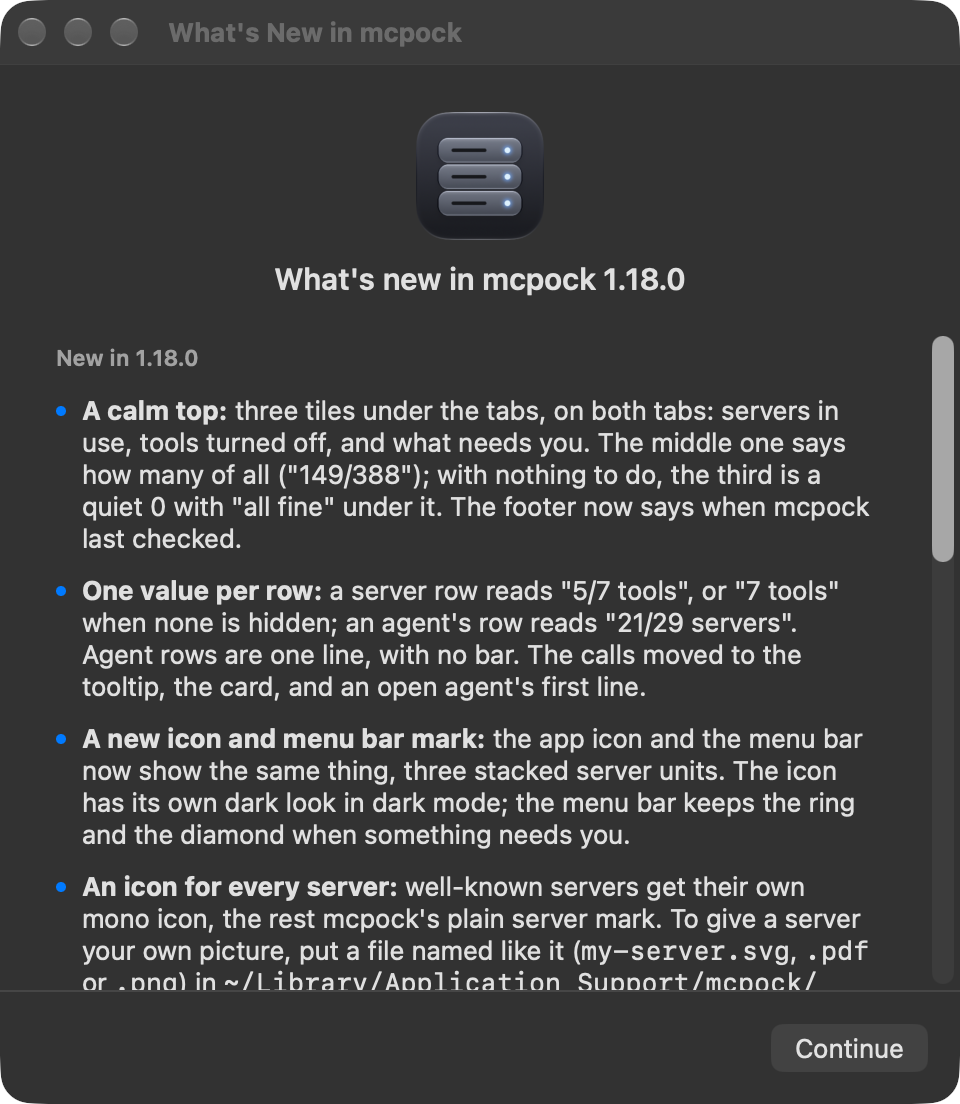
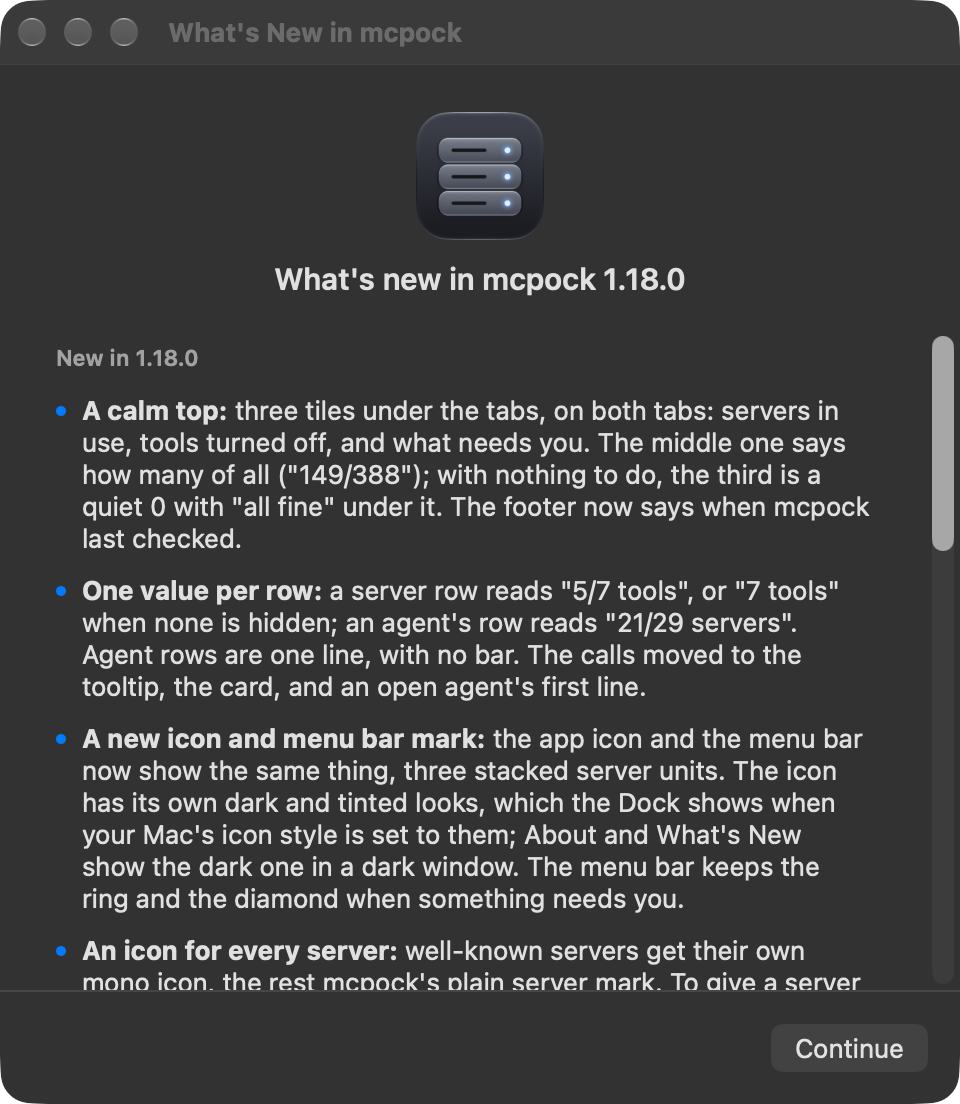
README and release notes for the 1.18.0 release
The README's facts list names the switches; the switches part names Hermes profiles and says a server turned on again goes back to the same place in its file. The release notes say the same. What's New is retaken with the final notes.

Changed region(s): [[0.0625, 0.7083, 0.9062, 0.8931], [0.9688, 0.4928, 1.0, 0.5236]]

diff --git a/README.md b/README.md
@@ -21,6 +21,7 @@ A native macOS menu bar app that checks every MCP server your AI agents use and 
 - macOS 26 or later, Apple Silicon. Lives in the menu bar only: no Dock icon, no window.
 - Swift and SwiftUI, one dependency (Sparkle, for signed updates).
 - Reads Claude Code, Claude Desktop, Cursor, Windsurf, Codex, Grok, Goose, Hermes, OpenCode, VS Code and more, plus any standard MCP config it finds.
+- Turns a server off or on per agent, hides single tools, and shows each change before it writes.
 - Ships its own small MCP server, so you can say "check my mcpock" to an agent.
 
 ## Problems first, in plain words
@@ -68,7 +69,7 @@ When a server drops inside a Claude Code session that is still open, its row say
 
 ![Dark mode. Left, the github card (demo data): "Tools, 6/8 on", with two folds, tools not used in 30 days and hidden tools. Middle, the Servers tab searched for "github", the row reading "6/8 tools". Right, the card of a made-up server after one tool was turned off: Claude Code says "1 tool hidden", Cursor says "1 tool hidden through mcpock's filter", then five tools, each with its switch, and "Hidden, 1" at the end.](docs/images/mcpock-tools-dark.png)
 
-A switch beside each agent on a server's card turns that server on or off there, and a switch beside each tool hides that tool from your agents. mcpock uses each agent's own setting where it has one (Claude Code's blocked and deny lists, `enabled` and `disabled_tools` lines in Codex, Grok, Goose, Hermes and OpenCode, `disabled` in Cline), shows you the change first and saves a backup of the file. Claude Desktop, Cursor, VS Code and Windsurf have no off setting, so a server you turn off there waits in mcpock's own folder and moves back when you turn it on. Nothing is deleted, and one click turns it back.
+A switch beside each agent on a server's card turns that server on or off there, and a switch beside each tool hides that tool from your agents. mcpock uses each agent's own setting where it has one (Claude Code's blocked and deny lists, `enabled` and `disabled_tools` lines in Codex, Grok, Goose, Hermes (its profiles too) and OpenCode, `disabled` in Cline), shows you the change first and saves a backup of the file. Claude Desktop, Cursor, VS Code and Windsurf have no off setting, so a server you turn off there waits in mcpock's own folder and moves back when you turn it on, into the same place in the file it came from. Nothing is deleted, and one click turns it back.
 
 Agents can't flip a switch. They can only ask: an ask shows on the server's card with its reason and Yes and No, and only your Yes changes anything, through the same sheet. Everything else mcpock does only reads.
 

diff --git a/docs/release-notes/1.18.0.md b/docs/release-notes/1.18.0.md
@@ -8,7 +8,7 @@ New in 1.18.0
 - **The panel opens on Agents,** every time.
 - **Claude account connectors:** turn on "Include claude.ai connectors" in Settings > Agents and they get their own section under the agents, with what Claude Code says about each: connected, not answering, needs sign-in, or off in a project, and how many times Claude Code called it. mcpock asks Claude Code for its list at most every 30 minutes, and Claude Code starts its servers to answer, so this is off until you want it.
 - **Agents managed online:** Grok web, ChatGPT, Cursor cloud and Gemini keep their servers on their own sites, where mcpock can't check them. Each gets a row that opens its page; type their server names in Settings > Agents if you want them listed.
-- **More switches:** servers can now be turned off and on in Cline, VS Code, Windsurf and Hermes profiles. Cline has its own setting for it; VS Code and Windsurf have none, so the entry waits in mcpock's own folder while it is off, as with Cursor. The card also says when a Claude Code project has a server off ("Off in one project: shop").
+- **More switches:** servers can now be turned off and on in Cline, VS Code, Windsurf and Hermes profiles. Cline has its own setting for it; VS Code and Windsurf have none, so the entry waits in mcpock's own folder while it is off, as with Cursor. Turned on again, an entry goes back to the same place in its file, not to the end. The card also says when a Claude Code project has a server off ("Off in one project: shop").
 - **A filter for agents that can't hide single tools:** Cursor, Claude Desktop, VS Code, Cline and Windsurf. The card offers it with one button: the agent then starts mcpock's small helper, the helper starts the server and leaves out the tools you turn off. Nothing else about the server changes, and Remove puts the entry back. For servers that run as a command; remove the filter before you delete mcpock.
 - **New widgets:** the status widget is a ring of all your servers, with a sliver for each one that needs you. The Agents widget is a ring per agent with its logo inside, in medium and small. The grey text is easier to read on a light desktop.
 - **The card says how many tools are on:** "Tools · 5/7 on".
